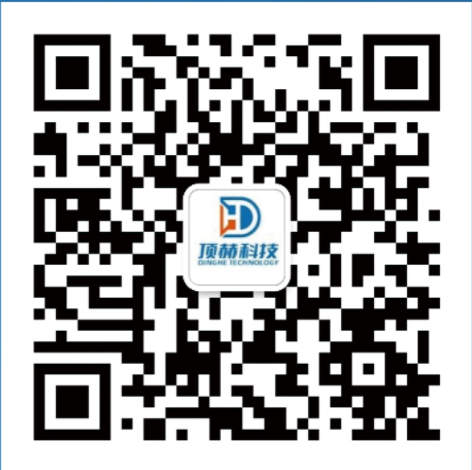
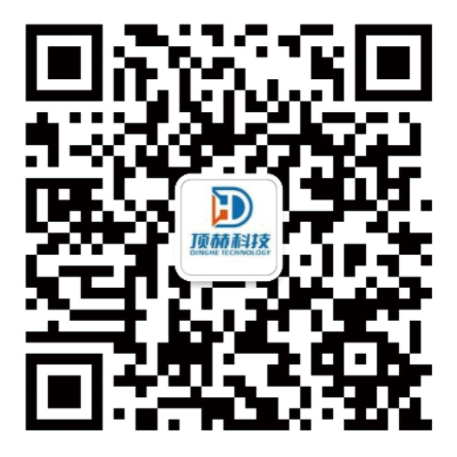
update: 首页核心产品、解决方案、公司优势

diff --git a/index.html b/index.html
@@ -203,7 +203,7 @@
                                     <div class="row">
                                         <div class="col-sm-6">
                                             <ul>
-                                                <li>汽车及配件制造</li>
+                                                <li>汽车及���件制造</li>
                                                 <li>摩托车制造</li>
                                                 <li>造船工业</li>
                                             </ul>
@@ -229,7 +229,7 @@
                             </div>
                             <div class="solution-content">
                                 <h3>合金压铸</h3>
-                                <p>压铸机器人实现快速取件及喷淋作业，配备在线检测系统，适应高温高湿环境</p>
+                                <p>压铸机器人实现快��取件及喷淋作业，配备在线检测系统，适应高温高湿环境</p>
                                 <div class="solution-details">
                                     <h4>应用范围</h4>
                                     <div class="row">
@@ -257,34 +257,47 @@
         </section>
     </main>
 
-    <footer class="bg-dark text-light py-4">
+    <footer class="bg-dark text-light py-5">
         <div class="container">
-            <div class="row">
+            <div class="row g-4">
                 <div class="col-md-4">
-                    <h4>联系我们</h4>
-                    <p>电话：400-123-4567</p>
-                    <p>邮箱：info@dinghe.com</p>
-                    <p>地址：深圳市南山区科技园</p>
+                    <h4 class="mb-4">联系我们</h4>
+                    <div class="contact-info">
+                        <div class="contact-item">
+                            <i class="bi bi-telephone-fill"></i>
+                            <span>159 2198 0098</span>
+                        </div>
+                        <div class="contact-item">
+                            <i class="bi bi-envelope-fill"></i>
+                            <span>W15921980098@163.com</span>
+                        </div>
+                        <div class="contact-item">
+                            <i class="bi bi-geo-alt-fill"></i>
+                            <span>浙江省嘉兴市平湖市当湖街道乍王线虹霓段188号5号楼一层102号</span>
+                        </div>
+                    </div>
                 </div>
                 <div class="col-md-4">
-                    <h4>快速链接</h4>
-                    <ul class="list-unstyled">
+                    <h4 class="mb-4">快速链接</h4>
+                    <ul class="footer-links">
                         <li><a href="about.html">关于我们</a></li>
                         <li><a href="products.html">产品中心</a></li>
                         <li><a href="download.html">资料下载</a></li>
                     </ul>
                 </div>
-                <div class="col-md-4">
-                    <h4>关注我们</h4>
-                    <div class="social-links">
-                        <a href="#" class="me-2"><i class="bi bi-weixin"></i></a>
-                        <a href="#" class="me-2"><i class="bi bi-linkedin"></i></a>
+                <div class="col-md-4 text-center">
+                    <h4 class="mb-4">关注我们</h4>
+                    <div class="qr-code">
+                        <img src="images/QR.png" alt="微信公众号" class="img-fluid">
+                        <p class="mt-2">扫码关注公众号</p>
                     </div>
                 </div>
             </div>
-            <div class="row mt-3">
-                <div class="col-12 text-center">
-                    <p class="mb-0">© 2024 鼎和自动化科技有限公司 版权所有</p>
+            <div class="footer-bottom">
+                <div class="row mt-4 pt-4 border-top border-secondary">
+                    <div class="col-12 text-center">
+                        <p class="mb-0">© 2024 顶赫科技 版权所有</p>
+                    </div>
                 </div>
             </div>
         </div>

diff --git a/css/style.css b/css/style.css
@@ -531,6 +531,28 @@ footer a:hover {
     color: var(--primary-color);
 }
 
+/* 新增二维码样式 */
+.qr-code {
+    background: rgba(255,255,255,0.1);
+    padding: 8px;
+    border-radius: 4px;
+    display: inline-block;
+    margin-bottom: 10px;
+}
+
+.qr-code img {
+    width: 85px;
+    height: 85px;
+    object-fit: contain;
+    display: block;
+}
+
+.qr-code p {
+    font-size: 12px;
+    margin: 5px 0 0;
+    text-align: center;
+}
+
 .social-links {
     margin-top: 20px;
 }
@@ -554,16 +576,17 @@ footer a:hover {
 }
 
 /* 响应式调整 */
-@media (max-width: 991px) {
-    .navbar-collapse {
-        background: #fff;
-        padding: 15px;
-        border-radius: 8px;
-        box-shadow: 0 5px 15px rgba(0,0,0,0.1);
-    }
-}
-
 @media (max-width: 768px) {
+    .qr-code img {
+        width: 75px;
+        height: 75px;
+    }
+    
+    .qr-code p {
+        font-size: 11px;
+    }
+    
+    /* 保留其他原有的响应式样式 */
     .carousel-item {
         height: 400px;
     }
